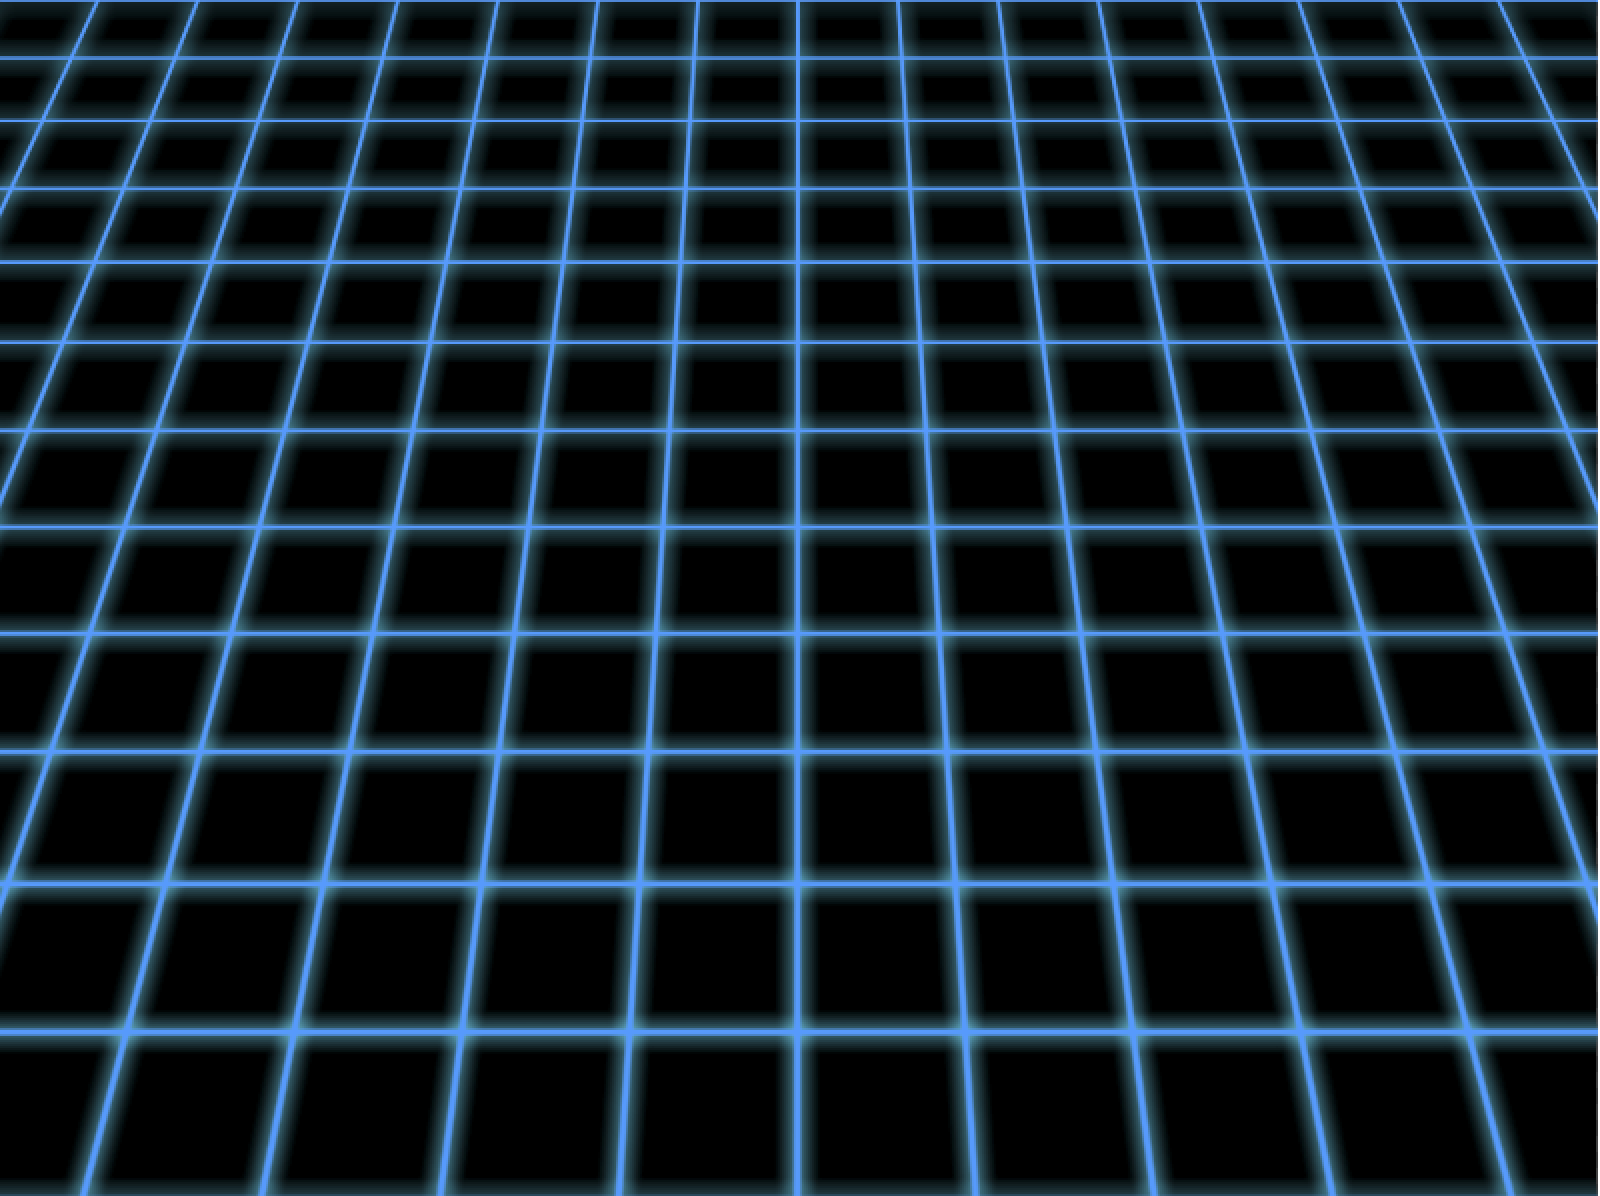
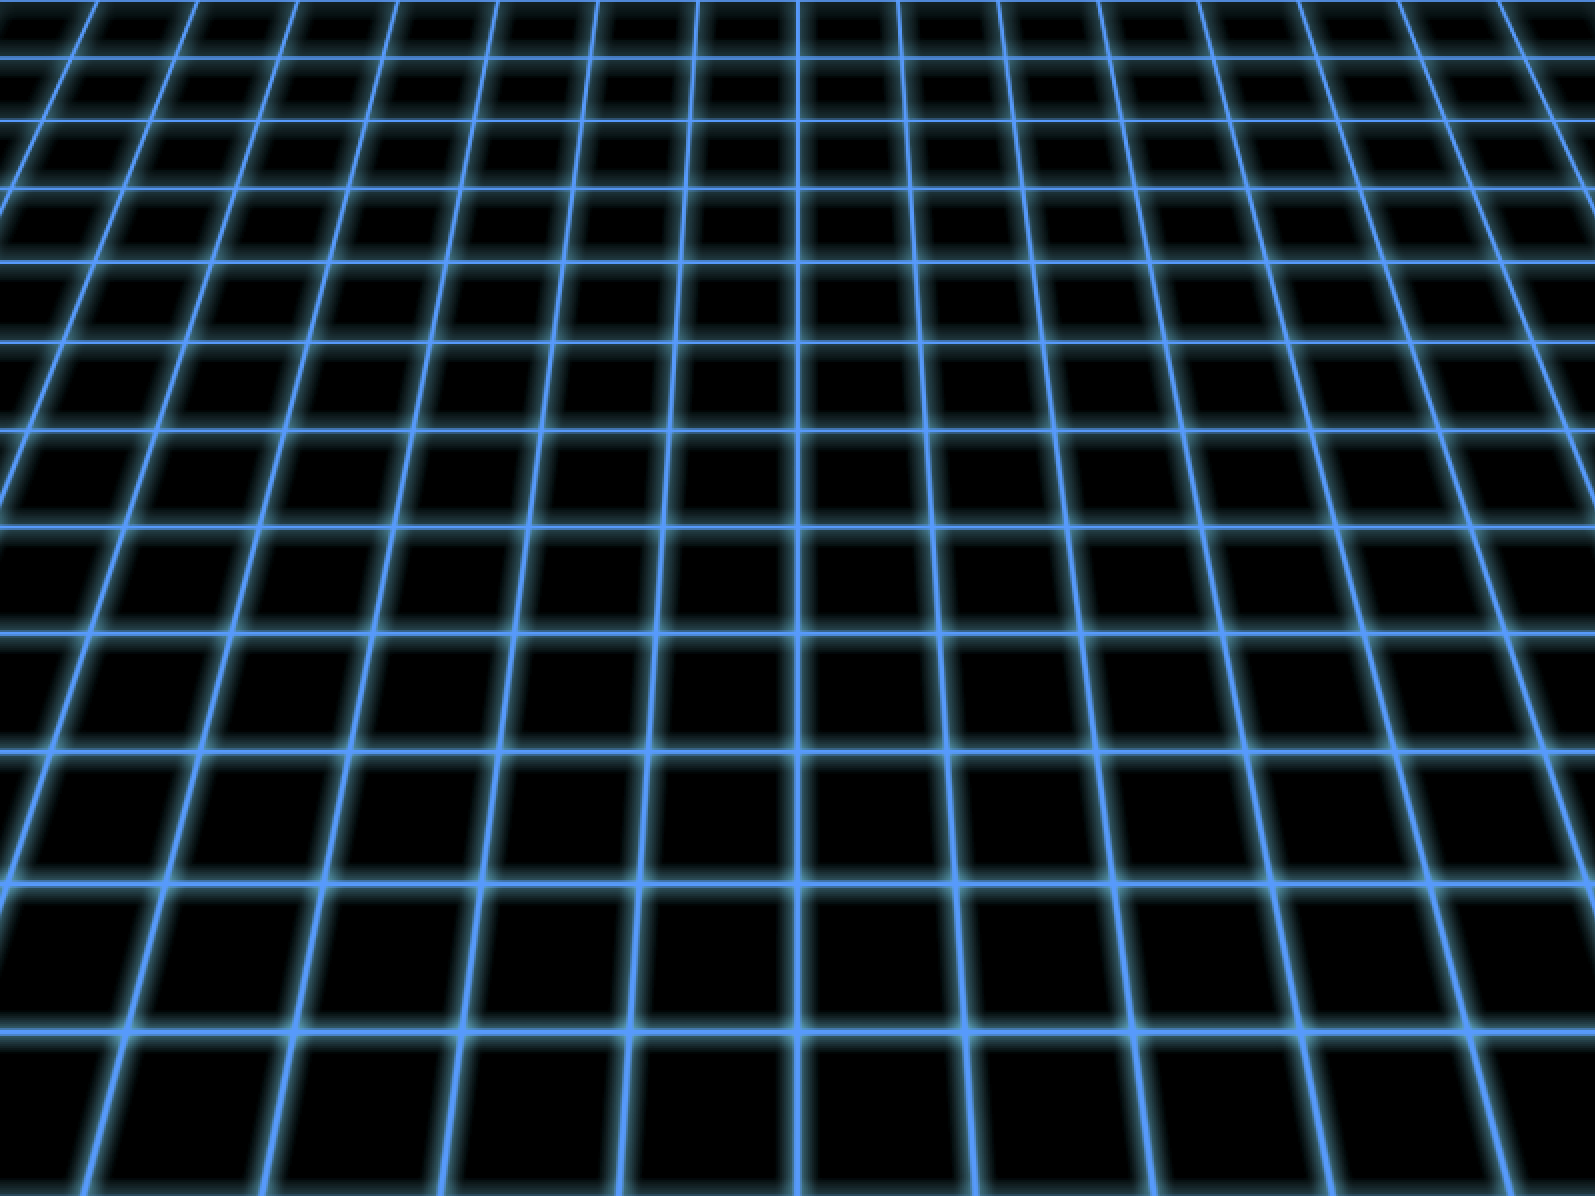
cleaned up background image for start screen

diff --git a/src/css/main.css b/src/css/main.css
@@ -8,10 +8,16 @@ canvas {
 }
 
 #start-modal {
-    background-image: url("../../assets/modal_bg.png");
     display: flex;
     background-color: transparent;
     flex-direction: row;
+}
+
+.bg-wallpaper {
+    position: absolute;
+    z-index: -1;
+    width: 100%;
+    height: 100%;
 }
 .modal {
     background-color: rgba(0,0,0, 0.5);

diff --git a/index.html b/index.html
@@ -20,6 +20,7 @@
     <script type="text/javascript" src="dist/bundle.js" ></script>
     <main id="content"></main>
     <div id="start-modal" class="modal">
+        <img class="bg-wallpaper" src="../../assets/modal_bg.png" />
         <div class="left-menu">
             <h2>Your Score</h2>
             <div id="scores"></div>
